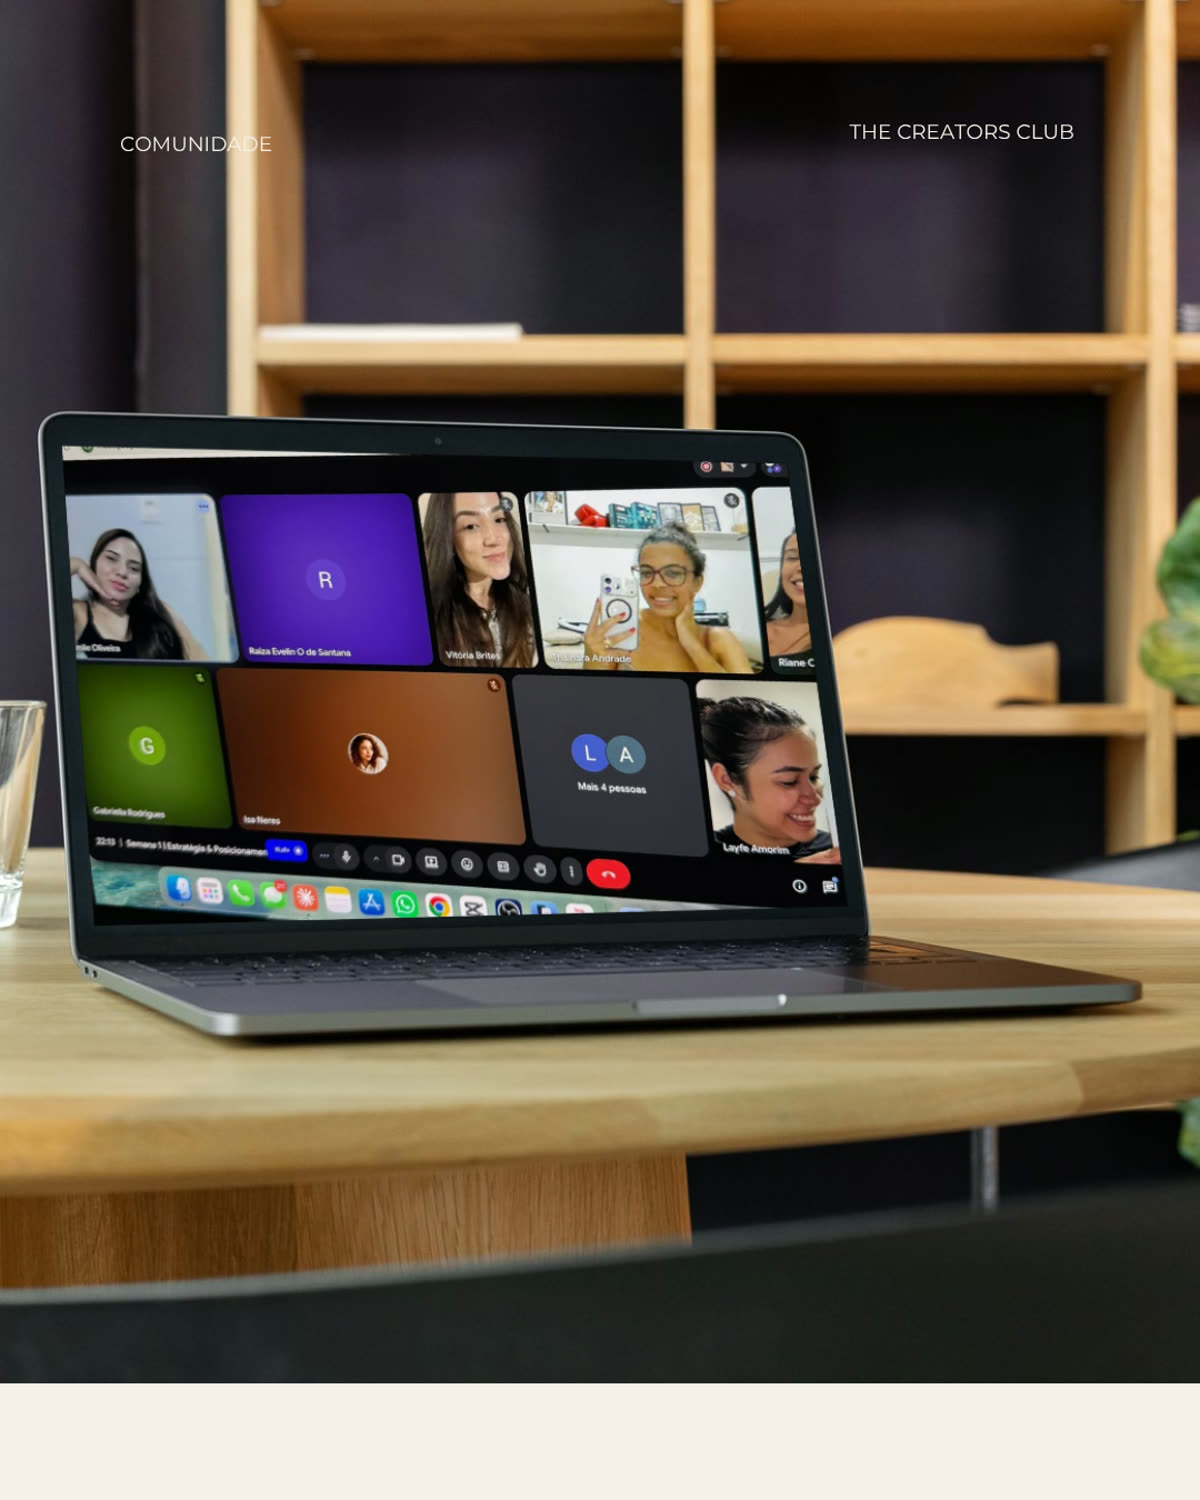
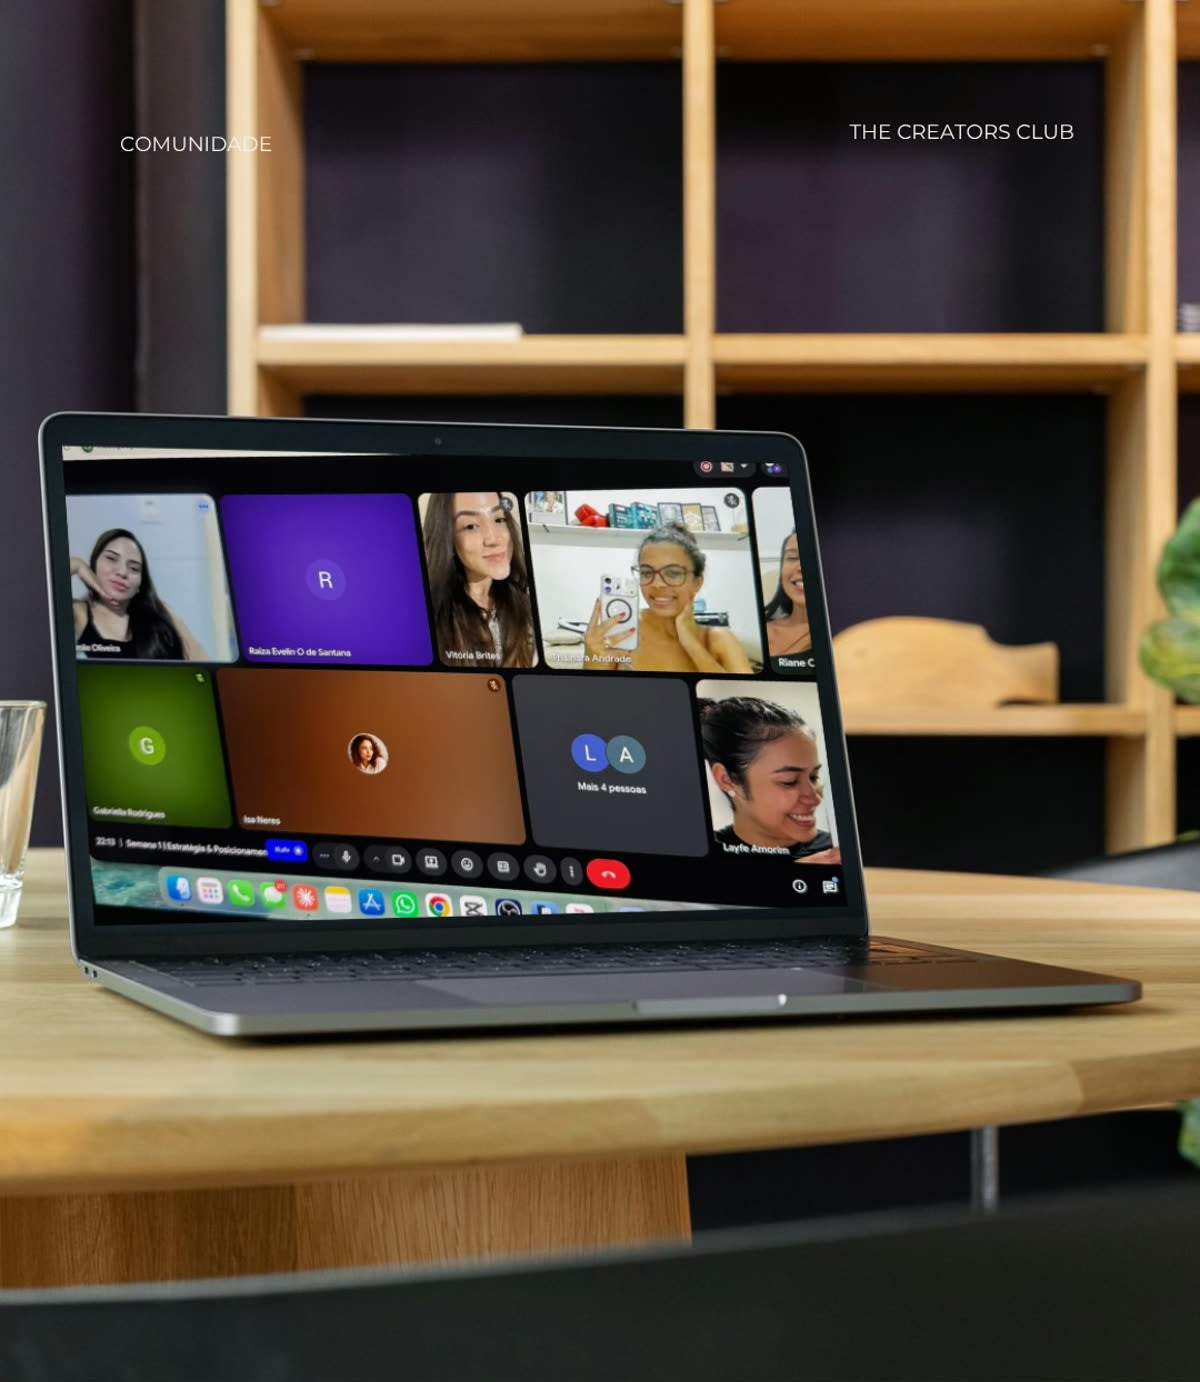
Ajusta imagens da landing

diff --git a/landing/index.html b/landing/index.html
@@ -333,7 +333,7 @@
 
       <!-- Acompanhamento -->
       <article class="path">
-        <div class="path-media"><img src="assets/community.jpg" alt="Acompanhamento TCC"></div>
+        <div class="path-media"><img src="assets/community.jpg?v=2" alt="Acompanhamento TCC"></div>
         <div class="path-body">
           <div class="path-tags"><span>Passo 02 · Transformação</span><span>4 encontros ao vivo</span></div>
           <h3>Acompanhamento TCC</h3>
@@ -387,7 +387,7 @@
         <div class="cat-body"><h3>Sabrina</h3><span class="cat-niche">Fitness &amp; maternidade</span><p>23kg a menos e uma mãe que decidiu olhar um pouco mais para si. A prova de que consistência e persistência mudam vidas e se tornam herança para os filhos.</p></div>
       </article>
       <article class="cat">
-        <div class="cat-media"><img src="assets/c-railane.jpg" alt="Railane"></div>
+        <div class="cat-media"><img src="assets/c-railane.jpg?v=2" alt="Railane"></div>
         <div class="cat-body"><h3>Railane</h3><span class="cat-niche">Curadora de experiências</span><p>Transforma tudo em experiência. Agora vive a maior delas: construir o lar dos sonhos do zero. Quem a segue por dicas vai acompanhar essa jornada íntima.</p></div>
       </article>
       <article class="cat">
